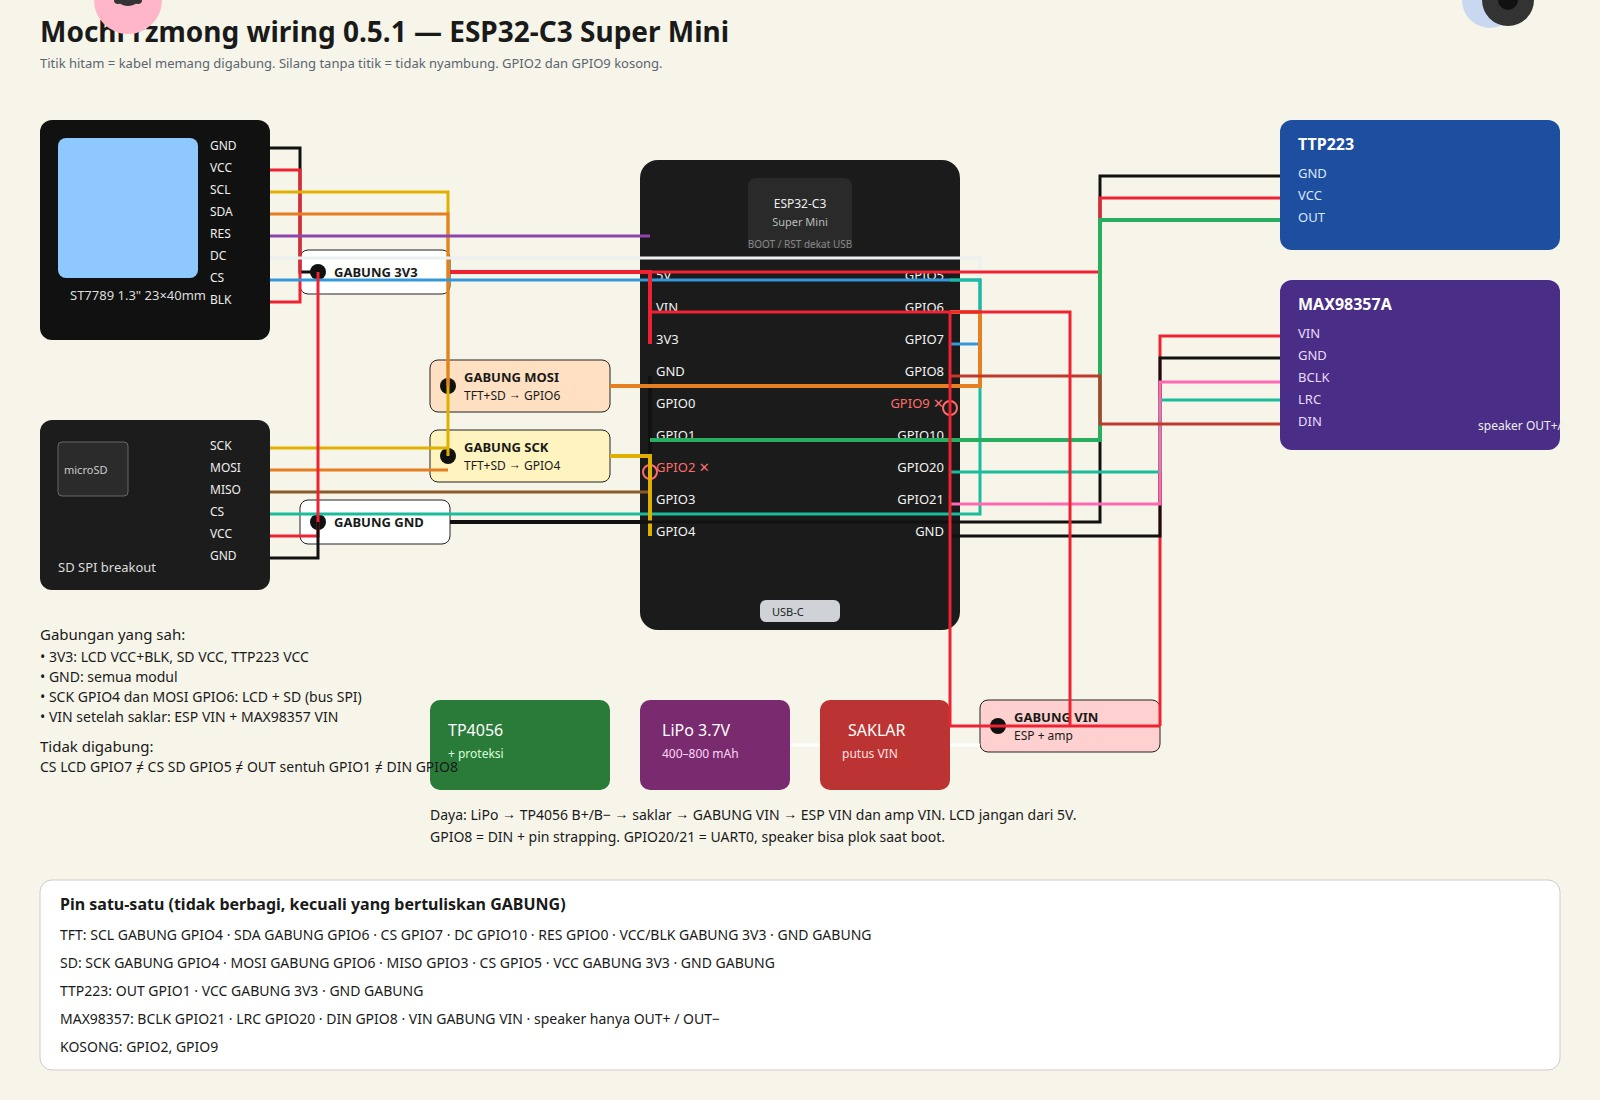
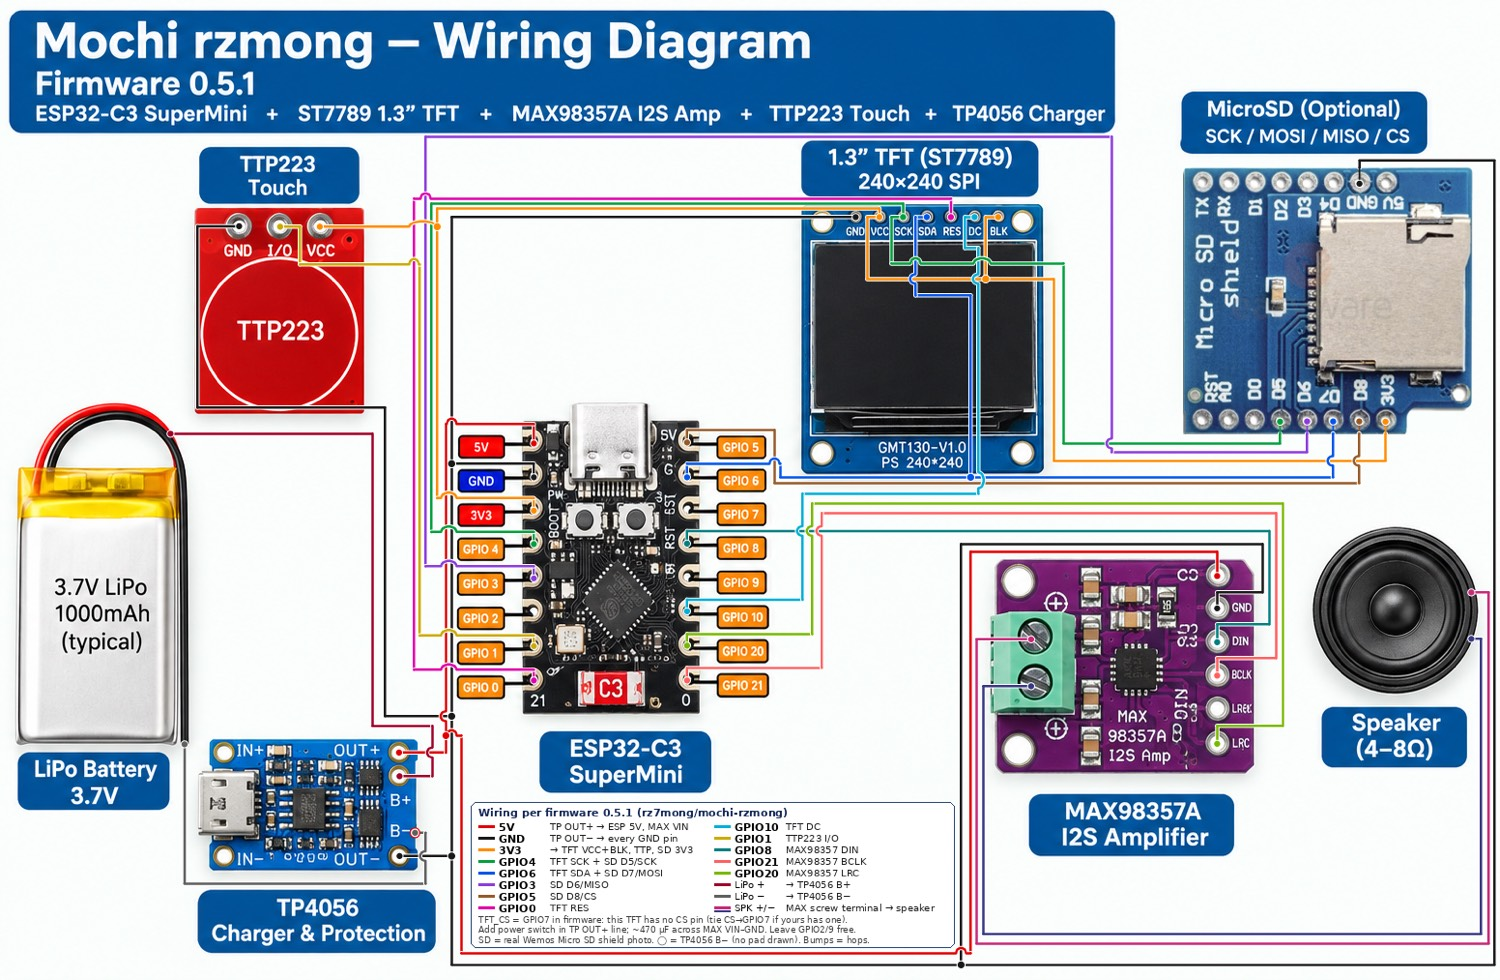
docs: pasang wiring diagram 0.5.1 resmi
Ganti docs/wiring-0.5.1.jpg dengan diagram yang cocok pin firmware,
tampilkan di hardware.html, dan hentikan impor catbox yang bisa menimpa.

diff --git a/docs/hardware.html b/docs/hardware.html
@@ -38,7 +38,7 @@ img.wire{width:100%;border-radius:12px;border:1px solid var(--line);background:#
 <li>LCD <b>1.54"</b> (PCB ~32 mm) <b>tidak</b> muat case ini — jangan pakai tanpa redesign STL.</li>
 <li>Jangan pakai ESP32-WROOM / DevKit besar.</li>
 </ul>
-<p class="warn">Skema lama (TFT RST=GPIO8, SD MISO=GPIO2, I2S DIN=GPIO9) <b>salah untuk firmware ini</b>. Pin di bawah <b>bukan boot-safe</b>.</p>
+<p class="warn">Skema lama (TFT RST=GPIO8, SD MISO=GPIO2, I2S DIN=GPIO9) <b>salah untuk firmware ini</b>. Diagram di bawah sudah pin 0.5.1. Pin ini <b>bukan boot-safe</b>.</p>
 </div>
 
 <div class="card">
@@ -47,7 +47,7 @@ img.wire{width:100%;border-radius:12px;border:1px solid var(--line);background:#
 <tr><th>Bagian</th><th>Spesifikasi</th></tr>
 <tr><td>Otak</td><td>ESP32-C3 Super Mini, flash 4 MB, USB-C native</td></tr>
 <tr><td>Layar</td><td>ST7789 IPS 1.3" 240×240 SPI 8-pin, PCB 23×40 mm</td></tr>
-<tr><td>Baterai</td><td>LiPo 3.7V pipih 400–800 mAh (bukan 18650)</td></tr>
+<tr><td>Baterai</td><td>LiPo 3.7V pipih 400–1000 mAh (diagram tipikal 1000 mAh; cek ketebalan vs case, bukan 18650)</td></tr>
 <tr><td>Charger</td><td><b>TP4056 + proteksi DW01/8205A</b></td></tr>
 <tr><td>Saklar</td><td>On/Off memutus VIN beban</td></tr>
 <tr><td>Sentuh</td><td>TTP223 (HIGH saat sentuh)</td></tr>
@@ -60,7 +60,9 @@ img.wire{width:100%;border-radius:12px;border:1px solid var(--line);background:#
 
 <div class="card">
 <h2>Pin firmware 0.5.1</h2>
-<p>Ikuti tabel ini saat solder. Gambar wiring hanya bantu lihat bentuk barang.</p>
+<p>Ikuti tabel dan diagram ini saat solder. Gambar resmi firmware 0.5.1 — sama dengan <code>MochiRzmong.h</code> + <code>User_Setup_ST7789.h</code>.</p>
+<p><img class="wire" src="wiring-0.5.1.jpg" alt="Wiring diagram Mochi rzmong firmware 0.5.1"/></p>
+<p style="color:#8b95a7;font-size:13px">TFT di foto tidak punya kaki CS: firmware tetap pakai GPIO7. Sambungkan jika modulmu ada CS. GPIO2 dan GPIO9 tetap kosong. Saklar di jalur TP OUT+, elko ~470 µF di VIN–GND MAX. SD di foto adalah shield SPI, diberi 3V3 — bukan reader 5V.</p>
 <table>
 <tr><th>Modul</th><th>Sinyal</th><th>GPIO</th><th>Catatan</th></tr>
 <tr><td>Touch</td><td>OUT</td><td><b>1</b></td><td>TTP223 HIGH saat sentuh</td></tr>

diff --git a/CHANGELOG.md b/CHANGELOG.md
@@ -3,6 +3,7 @@
 ## [0.5.1] — 2026-09-30
 
 ### Changed
+- **Wiring diagram**: `docs/wiring-0.5.1.jpg` resmi (pin 0.5.1) dipasang di hardware.html. Workflow impor catbox tidak lagi menimpa file ini.
 - **Docs sync**: Pages, PRODUCT, README, HANDOFF, hardware/blueprint, tutorial → **0.5.1**
 - **Blueprint**: pinout mengikuti `MochiRzmong.h` + `User_Setup_ST7789.h` (bukan skema lama RST=8 / MISO=2 / DIN=9)
 - **Model hardware**: ESP32-C3 Super Mini + ST7789 1.3" 240×240 PCB 23×40 mm

diff --git a/README.en.md b/README.en.md
@@ -24,7 +24,7 @@ Settings page is **pengaturan.html** (`thietlap.html` only redirects).
 
 Pins are **not** “boot-safe”: GPIO8 is a C3 strapping pin (I2S DIN); GPIO20/21 are UART0 (boot log may click the speaker).
 
-Full pins / case STL / troubleshooting: see [README.md](README.md).
+Full pins / case STL / troubleshooting: see [README.md](README.md). Wiring diagram 0.5.1: [docs/wiring-0.5.1.jpg](docs/wiring-0.5.1.jpg).
 
 ## License
 

diff --git a/README.md b/README.md
@@ -38,6 +38,8 @@ Di perangkat: **GIF + WAV 16-bit saja** (tidak ada pemutar MP4, tidak ada decode
 
 Sumber pin: `firmware/include/MochiRzmong.h` + `User_Setup_ST7789.h`.
 
+Diagram resmi: [docs/wiring-0.5.1.jpg](docs/wiring-0.5.1.jpg) · halaman [hardware](https://rz7mong.github.io/mochi-rzmong/hardware.html).
+
 ```
 ESP32-C3 Super Mini
   Touch OUT → GPIO1
